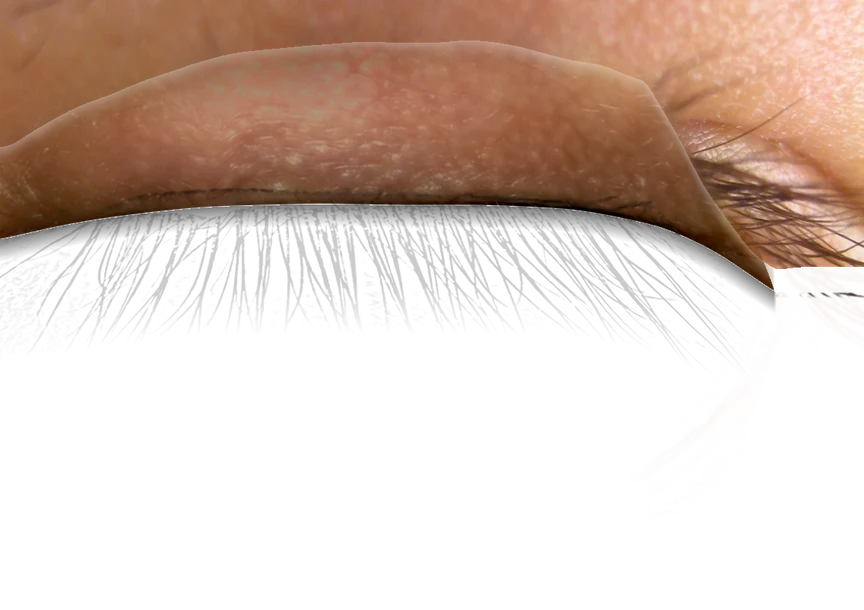
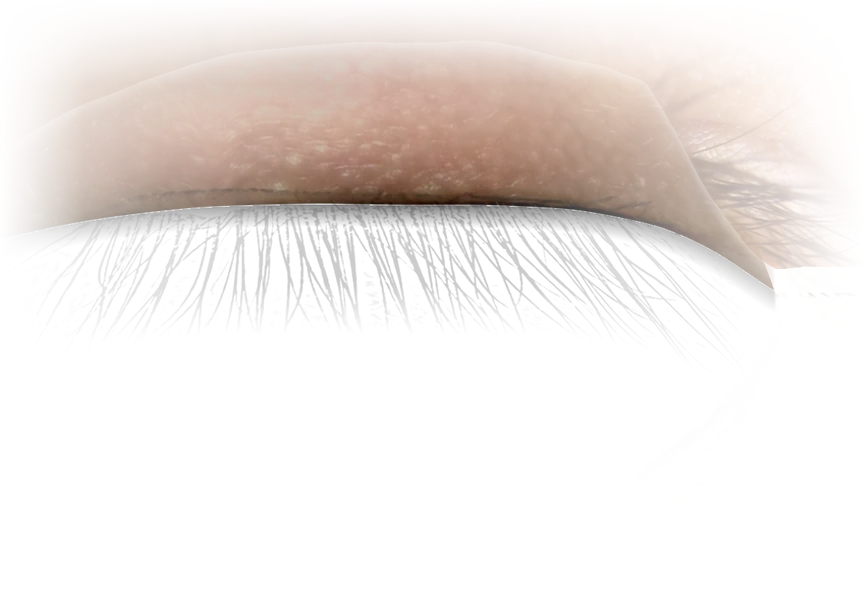
Real eyes: bake the edge fade into the lid layers and the pupil picture
The edges were erased on every frame in an offscreen layer per eye, which with
two eyes overloaded the software-rendered emulator. The pupil picture now
carries its faded edges and the lid layers have the fade in their alpha, so no
layer or erasing is needed per frame. The pupil's unrest moves in 2 % steps,
redrawn at most 4 times a second.

Claude-Session: https://claude.ai/code/session_01LBg8THo6wTrD4Pw2uQNr1i

diff --git a/ui/src/commonMain/kotlin/io/github/ahmetdurmus1218/jarvis/ui/components/RealEye.kt b/ui/src/commonMain/kotlin/io/github/ahmetdurmus1218/jarvis/ui/components/RealEye.kt
@@ -63,6 +63,8 @@ data class EyeGeometry(
     val credits: List<String> = emptyList(),
     /** Positions of the raised lower lid frames (a smile reaching the eyes); the first is "not raised". */
     val lows: List<Float> = emptyList(),
+    /** The lid layers already carry the fade of the photo's edges (bake_fade.py): no erasing per frame. */
+    val faded: Boolean = false,
 ) {
     @Serializable
     data class Vignette(val cx: Float, val cy: Float, val rx: Float, val ry: Float)
@@ -180,8 +182,8 @@ fun RealEye(
     val grow by animateFloatAsState(if (calm) 1f else feel.grow, tween(350))
     val drop by animateFloatAsState(if (calm) 0f else feel.drop, tween(600))
     // The eye is costly to draw (a photo, its pupil re-sampled in rings, lid layers), so it is redrawn only as
-    // often as something visibly moves: every frame during a blink, ~15 times a second while speaking, 8 while
-    // the pupil merely lives, and not at all while asleep or with reduced motion between blinks.
+    // often as something visibly moves: every frame during a blink, ~15 times a second while speaking, at most 4
+    // while the pupil merely lives, and not at all while asleep or with reduced motion between blinks.
     var shown by remember { mutableStateOf(EyeTick(0L, -10_000L)) }
     val speaking = mode == CoreMode.SPEAKING
     val wave = { t: Long -> pupilWave(t, calm, sleeping, speaking) }
@@ -210,7 +212,7 @@ fun RealEye(
                 blinking -> 0L
                 sleeping || calm -> Long.MAX_VALUE
                 speaking -> 66L
-                else -> 125L
+                else -> 250L
             }
             val due = drawn < 0 || (every != Long.MAX_VALUE && t - drawn >= every) || (!blinking && shown.blinking(drawn))
             // Between blinks a redraw that would look the same (the pupil's unrest moved less than a step) is skipped.
@@ -227,7 +229,8 @@ fun RealEye(
     fun one(m: Modifier, mirror: Boolean) {
         Canvas(
             m.graphicsLayer {
-                compositingStrategy = CompositingStrategy.Offscreen
+                // Lid layers with the edge fade baked in need no layer of their own (much cheaper to draw).
+                if (!eye.geometry.faded) compositingStrategy = CompositingStrategy.Offscreen
                 rotationZ = if (mirror) -tilt else tilt
                 scaleX = grow
                 scaleY = grow
@@ -254,13 +257,13 @@ fun RealEye(
     }
 }
 
-/** The pupil's own movement at [t] ms: slow unrest (hippus), a flicker with the voice; in steps of 1 %. */
+/** The pupil's own movement at [t] ms: slow unrest (hippus), a flicker with the voice; in steps of 2 %. */
 private fun pupilWave(t: Long, calm: Boolean, sleeping: Boolean, speaking: Boolean): Float {
     if (calm || sleeping) return 0f
     val clock = t / 1000f
     val hippus = 0.025f * sin(clock * 0.9f) + 0.015f * sin(clock * 2.3f + 1f)
     val flicker = if (speaking) 0.04f * mouthWave(clock) else 0f
-    return ((hippus + flicker) * 100f).roundToInt() / 100f
+    return ((hippus + flicker) * 50f).roundToInt() / 50f
 }
 
 /**
@@ -321,33 +324,32 @@ fun DrawScope.drawEye(
         if (mirror) withTransform({ scale(-1f, 1f, center) }) { block() } else block()
 
     mirrored {
-        // 1. The eye with its pupil at the wanted size.
-        drawPupilPicture(eye, scale, cache, left, top, w, dstOff, dstSize)
-        // 2. The window reflected in the cornea stays where it is while the pupil changes (it is part of the
-        //    photo, so the mirrored eye has it mirrored too).
-        img(eye.reflection)
+        // 1–2. The eye with its pupil at the wanted size and the window reflected in the cornea (it stays where it
+        //      is while the pupil changes; the mirrored eye has it mirrored too), its edges already faded out.
+        drawPupilPicture(eye, scale, cache ?: PupilCache(), dstOff, dstSize)
         drawLids(eye, lid, low, ::img)
-        drawFade(eye, left, top, k, dstOff, dstSize)
+        // Older lid layers without the fade: erase the edges here (needs the eye's own layer, see eyeLayer).
+        if (!g.faded) drawFade(eye, left, top, k, dstOff, dstSize)
     }
 }
 
-/** The photo with its pupil re-sampled, from the [cache] when there is one. */
-private fun DrawScope.drawPupilPicture(
-    eye: EyeAssets, scale: Float, cache: PupilCache?, left: Float, top: Float, w: Float, dstOff: IntOffset, dstSize: IntSize,
-) {
-    if (cache == null || dstSize.width <= 0 || dstSize.height <= 0) {
-        drawPupil(eye, scale, Offset(left, top), w)
-    } else {
-        val key = (scale / PUPIL_STEP).roundToInt()
-        val picture = cache.get(key, dstSize) {
-            ImageBitmap(dstSize.width, dstSize.height).also { bmp ->
-                CanvasDrawScope().draw(this, layoutDirection, Canvas(bmp), Size(dstSize.width.toFloat(), dstSize.height.toFloat())) {
-                    drawPupil(eye, key * PUPIL_STEP, Offset.Zero, dstSize.width.toFloat())
-                }
+/** The photo with its pupil re-sampled, the reflection and the faded edges, as a picture kept in [cache]. */
+private fun DrawScope.drawPupilPicture(eye: EyeAssets, scale: Float, cache: PupilCache, dstOff: IntOffset, dstSize: IntSize) {
+    if (dstSize.width <= 0 || dstSize.height <= 0) return
+    val g = eye.geometry
+    val key = (scale / PUPIL_STEP).roundToInt()
+    val picture = cache.get(key, dstSize) {
+        ImageBitmap(dstSize.width, dstSize.height).also { bmp ->
+            val w = dstSize.width.toFloat()
+            CanvasDrawScope().draw(this, layoutDirection, Canvas(bmp), Size(w, dstSize.height.toFloat())) {
+                drawPupil(eye, key * PUPIL_STEP, Offset.Zero, w)
+                drawImage(eye.reflection, IntOffset.Zero, IntSize(g.width, g.height), IntOffset.Zero, dstSize, filterQuality = FilterQuality.High)
+                // A picture of its own, so its edges can be erased here once instead of on every frame.
+                drawFade(eye, 0f, 0f, w / g.width, IntOffset.Zero, dstSize)
             }
         }
-        drawImage(picture, dstOffset = dstOff)
     }
+    drawImage(picture, dstOffset = dstOff)
 }
 
 /** The raised lower lid, then the upper lid, each between its two nearest frames. */

diff --git a/tools/rick-eye/bake_fade.py b/tools/rick-eye/bake_fade.py
@@ -1,0 +1,23 @@
+# Bakes the eye's edge fade into the alpha of the lid layers (eye_lid_NN, eye_low_N), so the app need not erase
+# the edges on every frame (it fades the eye picture once per pupil size). Run once after export.py and
+# export_lower.py. The fade is the same as the app's: an elliptical gradient plus 14 % top/bottom and 10 % sides.
+import json, sys, glob, numpy as np
+from PIL import Image
+D=sys.argv[1] if len(sys.argv)>1 else "assets/rick-eye"
+g=json.load(open(f"{D}/eye.json")); W,H=g["width"],g["height"]; v=g["vignette"]
+yy,xx=np.mgrid[0:H,0:W]+0.5
+R=v["rx"]*1.25; Ry=R*v["ry"]/v["rx"]
+r=np.hypot((xx-v["cx"])/R,(yy-v["cy"])/Ry)
+a_r=np.interp(r,[0,.2,.4,.6,.8,1],[0,0,.37,.67,.89,1])
+ex0,ey0,ew,eh=-1.0,-1.0,W+2.0,H+2.0
+fade,side=eh*0.14,ew*0.10
+a_t=np.clip(1-(yy-ey0)/fade,0,1); a_b=np.clip(1-(ey0+eh-yy)/fade,0,1)
+a_l=np.clip(1-(xx-ex0)/side,0,1); a_rt=np.clip(1-(ex0+ew-xx)/side,0,1)
+M=(1-a_r)*(1-a_t)*(1-a_b)*(1-a_l)*(1-a_rt)
+files=sorted(glob.glob(f"{D}/eye_lid_*.webp")+glob.glob(f"{D}/eye_low_*.webp"))
+for f in files:
+    im=np.asarray(Image.open(f).convert("RGBA")).astype(np.float32)
+    im[...,3]*=M
+    Image.fromarray((im+0.5).clip(0,255).astype(np.uint8),"RGBA").save(f,quality=88,method=6)
+    print("faded",f)
+g["faded"]=True; json.dump(g,open(f"{D}/eye.json","w"),ensure_ascii=False,indent=1)

diff --git a/tools/rick-eye/README.md b/tools/rick-eye/README.md
@@ -10,3 +10,7 @@ Betikler numpy, scipy ve Pillow ister; uygulamanın derlenmesi için gerekmez, y
 5. `export.py` — uygulamanın çizdiği katmanları yazar: `eye_base.jpg`, `eye_reflect.webp`, 12 kapak karesi, `eye.json`.
 
 Uygulama göz bebeğini canlı çizer (halkalar hâlinde, `ui/.../components/RealEye.kt`); kapak kareleri arasında geçiş yapar.
+
+Two-eye version (v1.5.3): `export_lower.py` writes the raised lower lid (`eye_low_N.webp`, a smile; uses
+`lower.py`), then `bake_fade.py assets/rick-eye` multiplies every lid layer's alpha by the edge fade once, so the
+app draws the eyes without erasing the edges on every frame. Run it once after each export.
